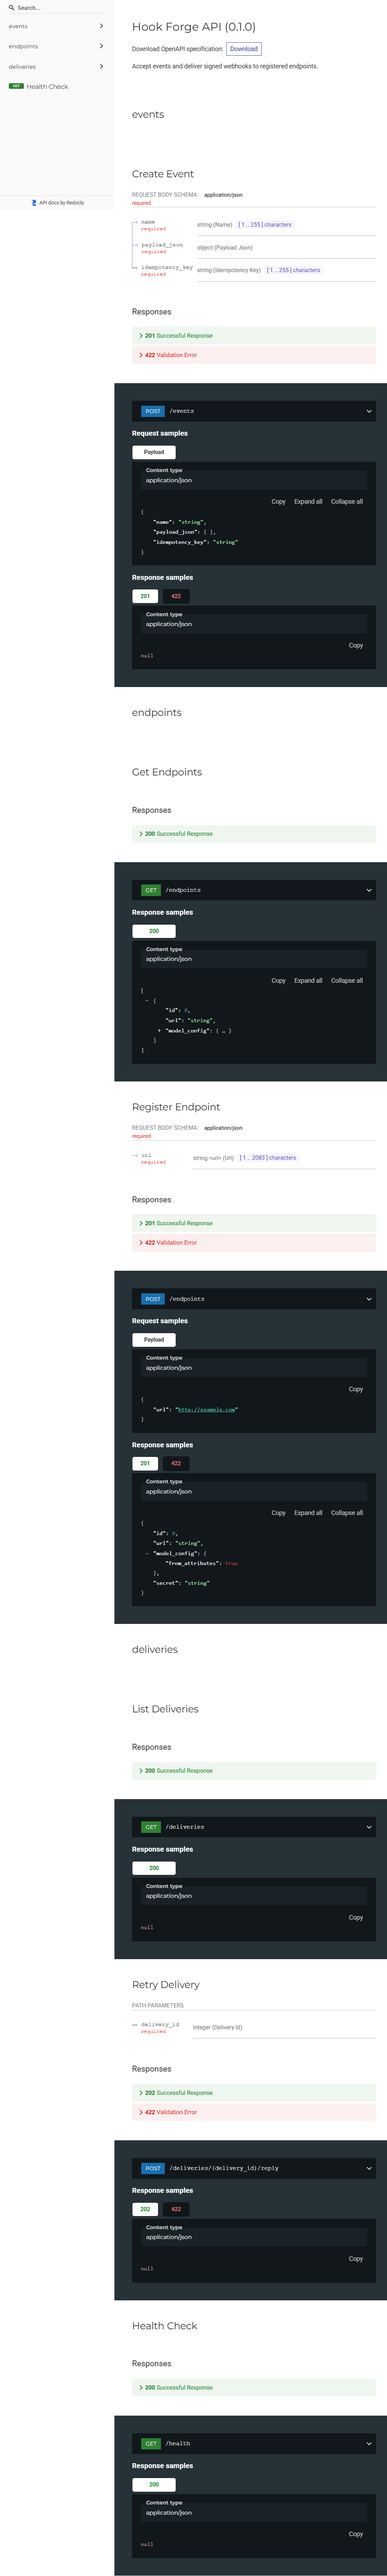
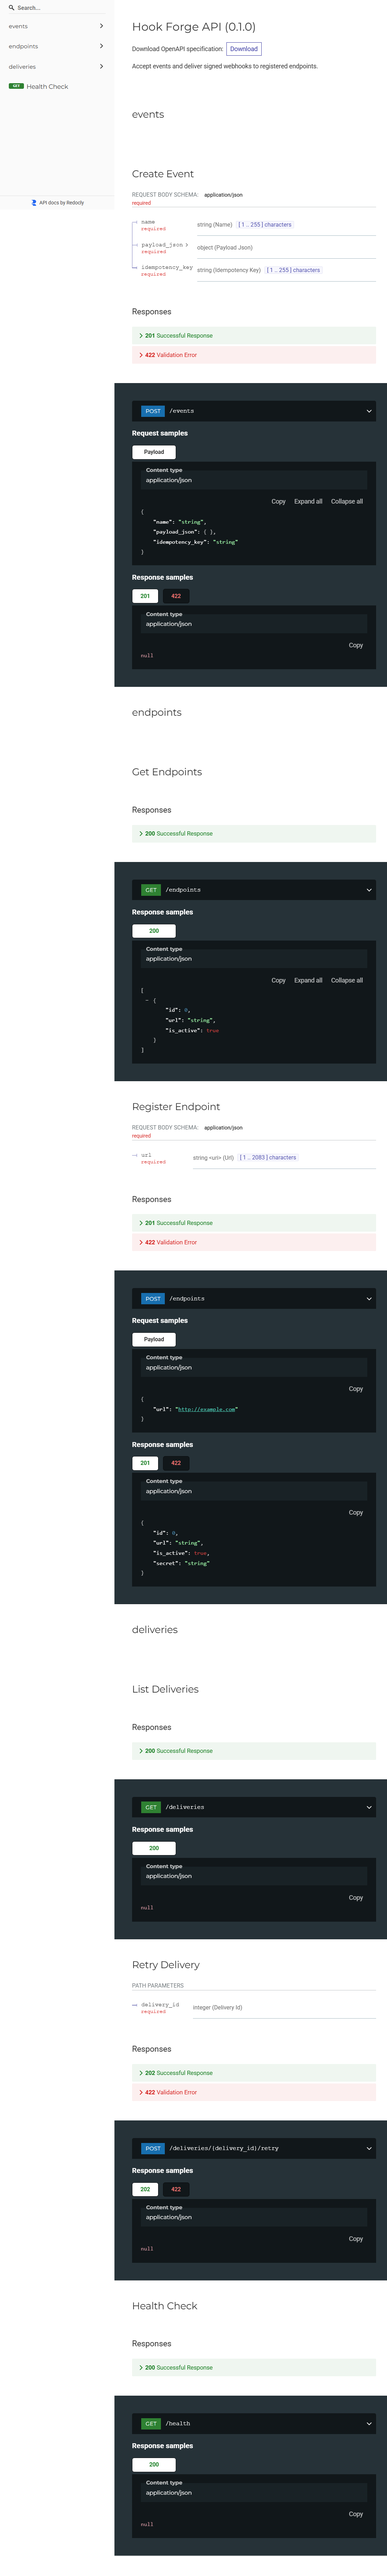
fixed some bugs: endpoint response now include is_active , renamed the retry enpoint ,added tests for dashboard html

diff --git a/app/static/app.js b/app/static/app.js
@@ -101,7 +101,7 @@ function renderEndpoints(endpoints) {
   elements.endpointRows.innerHTML = endpoints.map((endpoint) => `
     <tr>
       <td><div class="endpoint-cell"><span class="endpoint-icon">↗</span><div style="min-width:0"><div class="endpoint-url">${escapeHtml(endpoint.url)}</div><div class="endpoint-host">${escapeHtml(hostFromUrl(endpoint.url))}</div></div></div></td>
-      <td><span class="status-pill">ACTIVE</span></td>
+      <td><span class="status-pill ${endpoint.is_active ? "" : "status-inactive"}">${endpoint.is_active ? "ACTIVE" : "INACTIVE"}</span></td>
       <td class="row-id">#${escapeHtml(endpoint.id)}</td>
     </tr>`).join("");
 }
@@ -114,7 +114,7 @@ function renderDeliveries(deliveries) {
 
   $("#metric-deliveries").textContent = deliveries.length;
   $("#delivery-window").textContent = "50";
-  $("#metric-success").innerHTML = `${successRate}<small>%</small>`;
+  $("#metric-success").innerHTML = completed ? `${successRate}<small>%</small>` : "—";
   $("#metric-delivered").textContent = `${delivered} delivered`;
   $("#metric-failed").textContent = failed;
   $("#failed-caption").textContent = failed === 1 ? "Failed delivery" : "Failed deliveries";
@@ -295,7 +295,7 @@ elements.deliveryRows.addEventListener("click", async (event) => {
   button.disabled = true;
   button.textContent = "Queueing…";
   try {
-    await request(`/deliveries/${encodeURIComponent(deliveryId)}/reply`, { method: "POST" });
+    await request(`/deliveries/${encodeURIComponent(deliveryId)}/retry`, { method: "POST" });
     showToast(`Delivery #${deliveryId} queued for retry.`);
     await refreshDashboard();
   } catch (error) {

diff --git a/app/static/styles.css b/app/static/styles.css
@@ -137,6 +137,7 @@ tbody tr:last-child td { border-bottom: 0; }
 .endpoint-form .form-result { margin: 7px 0 0; }
 .status-pill { display: inline-flex; align-items: center; gap: 6px; border: 1px solid #344532; border-radius: 20px; background: #1a251b; padding: 4px 7px; color: var(--green); font: 8px var(--mono); letter-spacing: .3px; white-space: nowrap; }
 .status-pill::before { width: 5px; height: 5px; border-radius: 50%; background: currentColor; content: ""; }
+.status-pill.status-inactive { border-color: #3a403b; background: #1b1e1b; color: #9aa39c; }
 .status-pill.status-failed { border-color: #4a3030; background: #251818; color: var(--red); }
 .status-pill.status-retrying, .status-pill.status-pending, .status-pill.status-processing { border-color: #4b402c; background: #211e16; color: var(--amber); }
 .empty-cell, .loading-cell { height: 94px; color: #78847b; text-align: center; }

diff --git a/app/static/index.html b/app/static/index.html
@@ -97,7 +97,7 @@
                   <p class="endpoint-hint">Use a public HTTPS URL. The signing secret is shown once after registration.</p>
                   <div class="form-result" id="endpoint-result" aria-live="polite"></div>
                 </form>
-                <div class="panel-footer"><span class="tiny-pulse"></span> ENDPOINTS ARE POLLED EVERY 15 SECONDS</div>
+                <div class="panel-footer"><span class="tiny-pulse"></span> DASHBOARD AUTO-REFRESHES EVERY 15 SECONDS</div>
             </article>
 
             <article class="panel publish-panel" id="publish">

diff --git a/tests/test_api.py b/tests/test_api.py
@@ -55,7 +55,7 @@ class FakeSession:
             Endpoint: self.endpoints,
             Delivery: self.deliveries,
         }.get(entity, [])
-        if entity is Endpoint:
+        if entity is Endpoint and statement.whereclause is not None:
             values = [endpoint for endpoint in values if endpoint.is_active]
         return FakeScalars(values)
 
@@ -113,6 +113,13 @@ class ApiTests(unittest.TestCase):
         self.assertEqual(response.status_code, 200)
         self.assertEqual(response.json(), {"status": "ok"})
 
+    def test_dashboard_returns_html(self):
+        response = self.client.get("/")
+
+        self.assertEqual(response.status_code, 200)
+        self.assertIn("text/html", response.headers["content-type"])
+        self.assertIn("Hook Forge", response.text)
+
     def test_register_endpoint_returns_secret_but_list_does_not(self):
         with patch("app.api.endpoints.validate_webhook_url"):
             response = self.client.post(
@@ -121,11 +128,13 @@ class ApiTests(unittest.TestCase):
 
         self.assertEqual(response.status_code, 201)
         self.assertEqual(response.json()["url"], "https://hooks.example.com/")
+        self.assertTrue(response.json()["is_active"])
         self.assertTrue(response.json()["secret"].startswith("whsec_"))
 
         listed = self.client.get("/endpoints")
         self.assertEqual(listed.status_code, 200)
         self.assertEqual(len(listed.json()), 1)
+        self.assertTrue(listed.json()[0]["is_active"])
         self.assertNotIn("secret", listed.json()[0])
 
     def test_rejects_invalid_endpoint_url(self):
@@ -139,6 +148,21 @@ class ApiTests(unittest.TestCase):
 
         self.assertEqual(response.status_code, 400)
         self.assertEqual(self.db.endpoints, [])
+
+    def test_endpoint_list_returns_inactive_state(self):
+        self.db.endpoints.append(
+            Endpoint(
+                id=1,
+                url="https://inactive.example",
+                secret="secret",
+                is_active=False,
+            )
+        )
+
+        response = self.client.get("/endpoints")
+
+        self.assertEqual(response.status_code, 200)
+        self.assertFalse(response.json()[0]["is_active"])
 
     def test_event_creation_is_idempotent_and_fans_out(self):
         self.db.endpoints.extend(
@@ -209,7 +233,7 @@ class ApiTests(unittest.TestCase):
         )
         self.db.deliveries.append(delivery)
 
-        response = self.client.post("/deliveries/1/reply")
+        response = self.client.post("/deliveries/1/retry")
 
         self.assertEqual(response.status_code, 202)
         self.assertEqual(delivery.status, DeliveryStatus.RETRYING)
@@ -218,7 +242,7 @@ class ApiTests(unittest.TestCase):
         self.assertIsNone(delivery.error_message)
 
     def test_retry_rejects_missing_delivery(self):
-        response = self.client.post("/deliveries/404/reply")
+        response = self.client.post("/deliveries/404/retry")
 
         self.assertEqual(response.status_code, 404)
 
@@ -234,7 +258,7 @@ class ApiTests(unittest.TestCase):
             )
         )
 
-        response = self.client.post("/deliveries/1/reply")
+        response = self.client.post("/deliveries/1/retry")
 
         self.assertEqual(response.status_code, 400)
 

diff --git a/app/api/deliveries.py b/app/api/deliveries.py
@@ -31,7 +31,7 @@ async def list_deliveries(db: AsyncSession = Depends(get_db)):
     ]
 
 
-@router.post("/{delivery_id}/reply", status_code=status.HTTP_202_ACCEPTED)
+@router.post("/{delivery_id}/retry", status_code=status.HTTP_202_ACCEPTED)
 async def retry_delivery(delivery_id: int, db: AsyncSession = Depends(get_db)):
     delivery = await db.get(Delivery, delivery_id)
     if delivery is None:

diff --git a/app/api/endpoints.py b/app/api/endpoints.py
@@ -22,6 +22,7 @@ class EndpointResponse(BaseModel):
 
     id: int
     url: str
+    is_active: bool
 
 
 class EndpointRegistrationResponse(EndpointResponse):

diff --git a/README.md b/README.md
@@ -31,7 +31,7 @@ The dashboard shows API health, endpoint and delivery activity, and includes for
 | `GET` | `/endpoints` | List registered endpoints. Secrets are not included. |
 | `POST` | `/events` | Create an event and queue deliveries for active endpoints. |
 | `GET` | `/deliveries` | List the latest 50 deliveries and their status. |
-| `POST` | `/deliveries/{delivery_id}/reply` | Queue a failed or retrying delivery for retry. |
+| `POST` | `/deliveries/{delivery_id}/retry` | Queue a failed or retrying delivery for retry. |
 
 Event creation accepts a JSON object with a non-empty event name, a JSON object payload, and an idempotency key:
 
